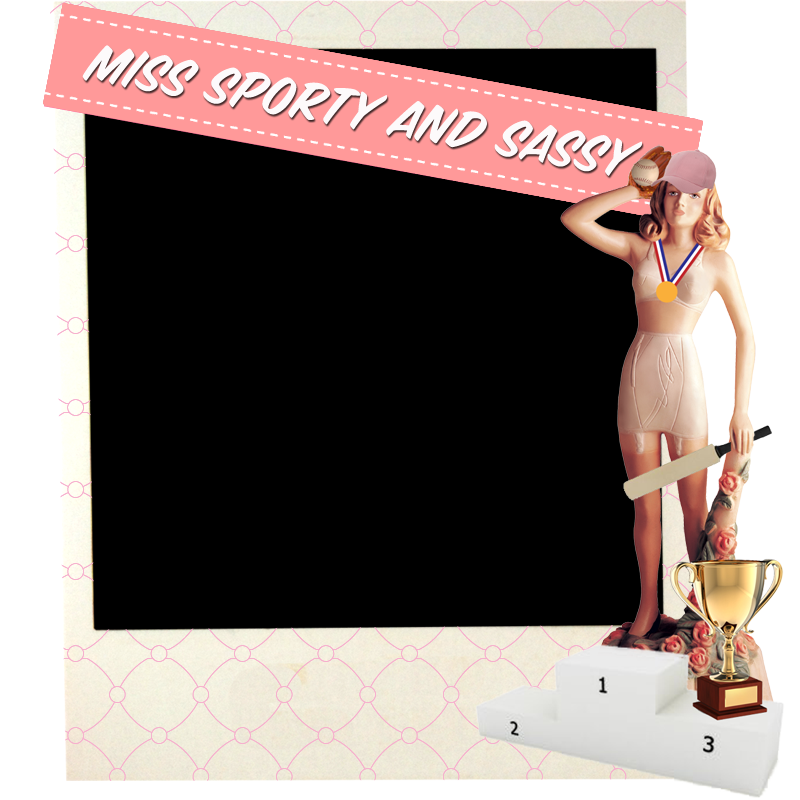
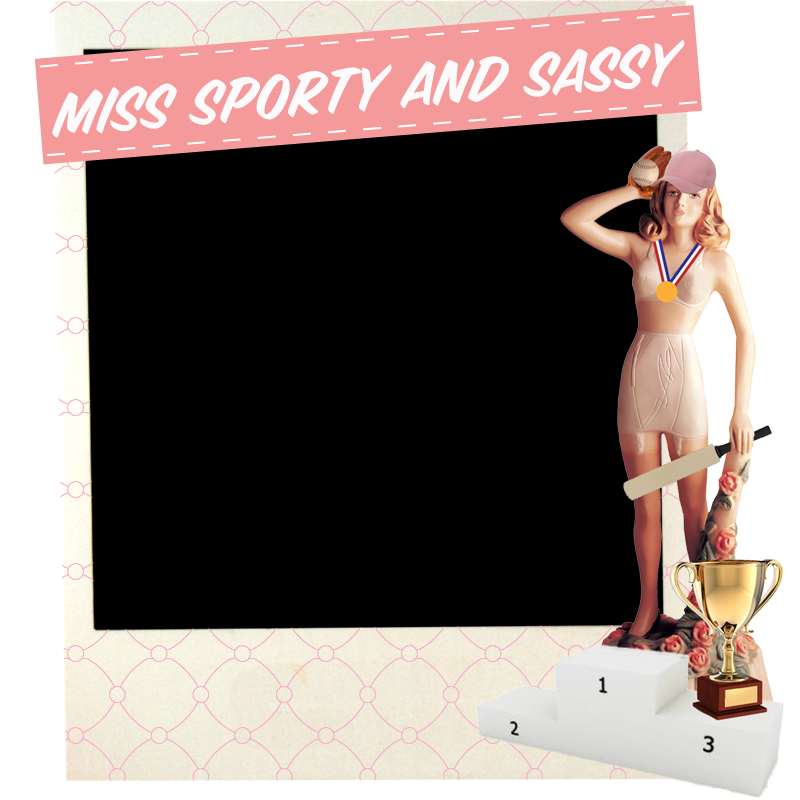
New polaroids and new positions on landing page.

Changed region(s): [[0.0312, 0.0, 0.875, 0.2812]]

diff --git a/static/css/main.css b/static/css/main.css
@@ -603,9 +603,9 @@ div#enter-to-win form div.terms-check p {
     top: 230px;
 }
 #landing-page #share-grouping {
-    left: -30px;
+    left: -135px;
     position: relative;
-    top: 15px;
+    top: 20px;
 }
 #landing-page #like-grouping {
     left: 70px;
@@ -613,6 +613,7 @@ div#enter-to-win form div.terms-check p {
     top: -110px;
 }
 #landing-page #logo-grouping {
+    left: 40px;
     position: relative;
     top: -65px;
 }
